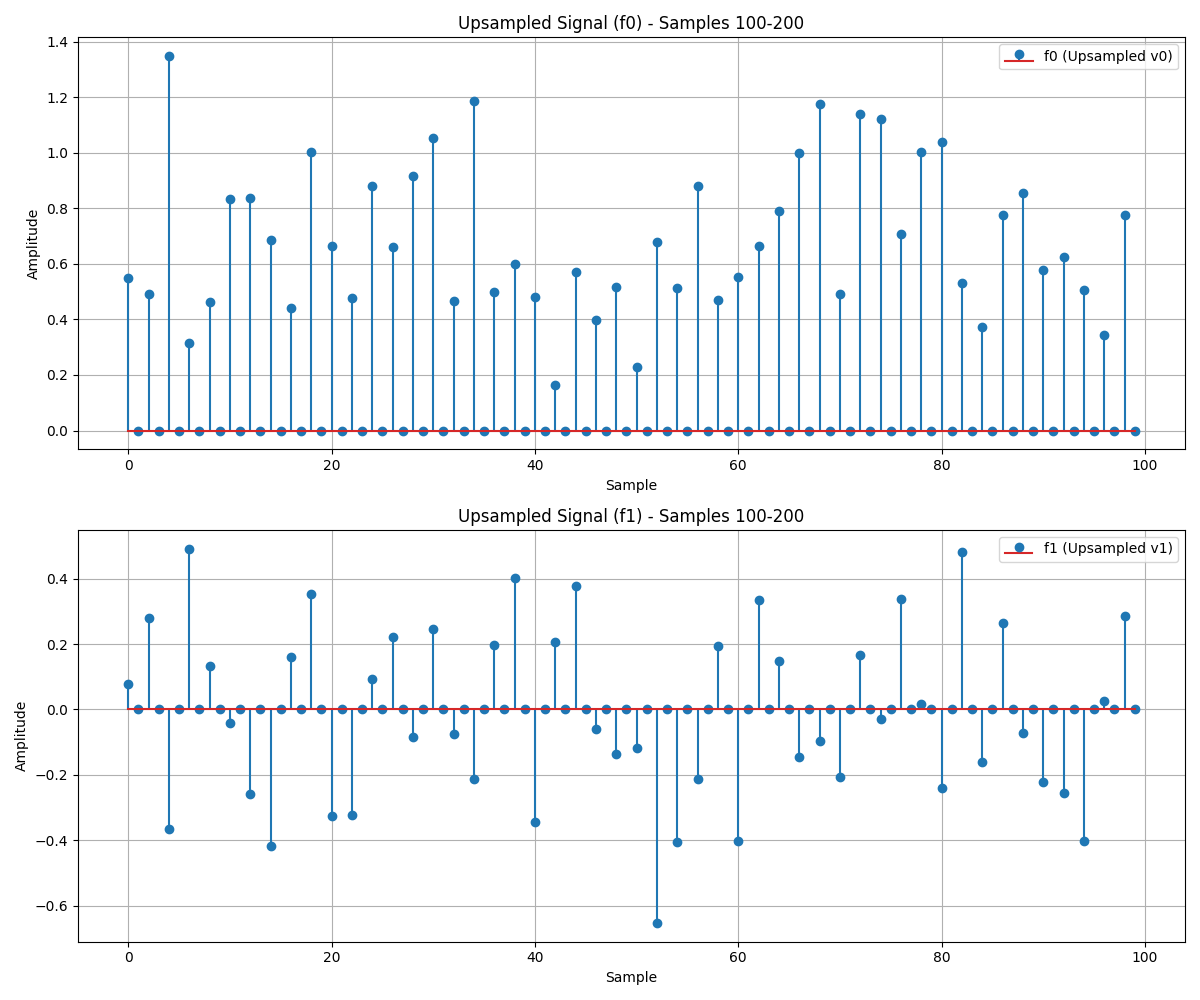
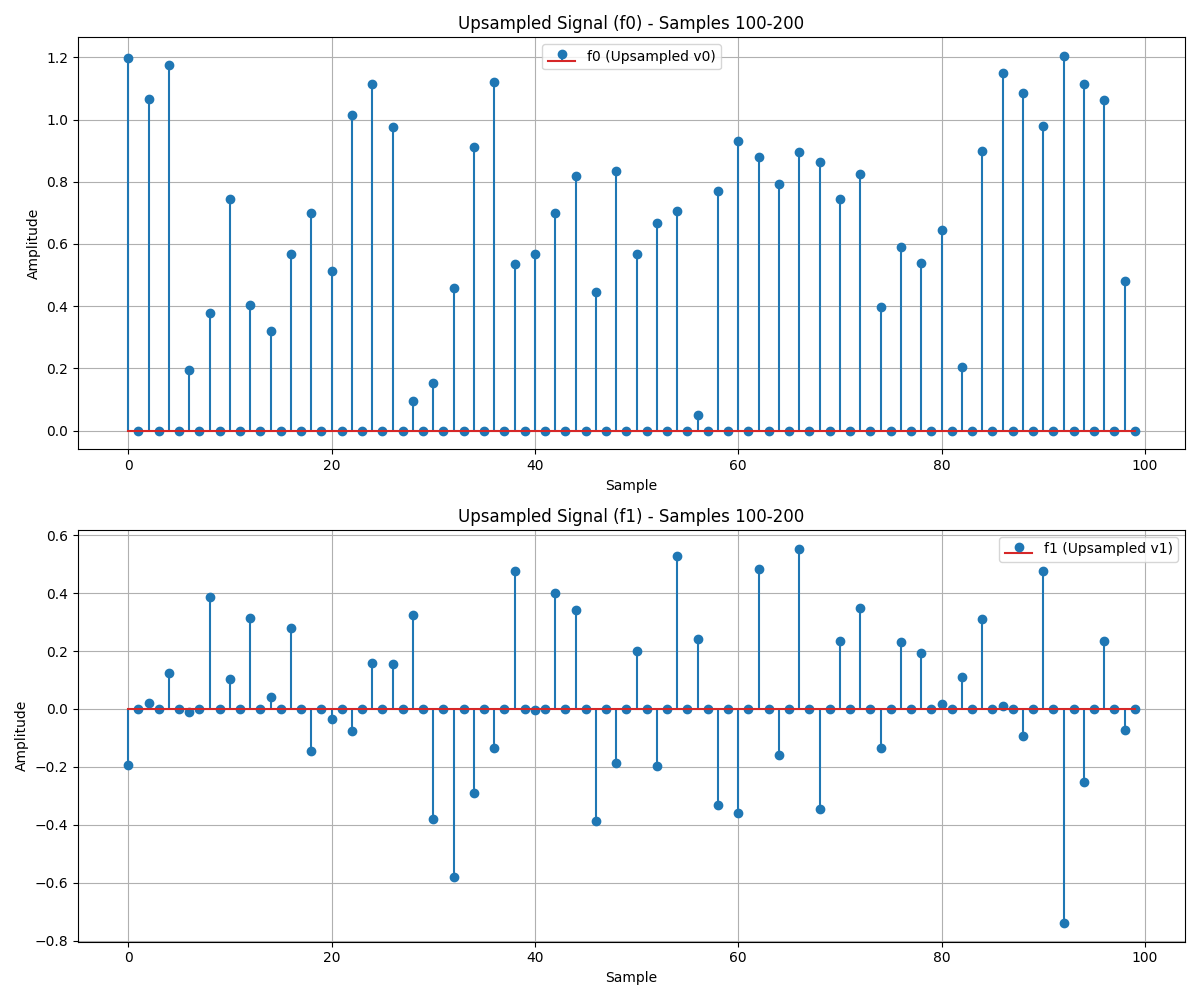
Initial Commit

diff --git a/main.py b/main.py
@@ -25,8 +25,10 @@ class FilterCalculator:
         return np.flip(h0)
 
     @staticmethod
-    def calculate_g1(h1: np.ndarray) -> np.ndarray:
-        return np.flip(h1)
+    def calculate_g1(h0: np.ndarray) -> np.ndarray:
+        n_indices = np.arange(len(h0))
+        alternating_sign = (-1) ** n_indices
+        return alternating_sign * h0
 
 
 class DataProcessor:
@@ -108,7 +110,7 @@ def main():
     h0 = FilterCalculator.generate_h0()
     h1 = FilterCalculator.calculate_h1(h0)
     g0 = FilterCalculator.calculate_g0(h0)
-    g1 = FilterCalculator.calculate_g1(h1)
+    g1 = FilterCalculator.calculate_g1(h0)
 
     print(f"h₀ (N={len(h0)}):")
     print(h0)
